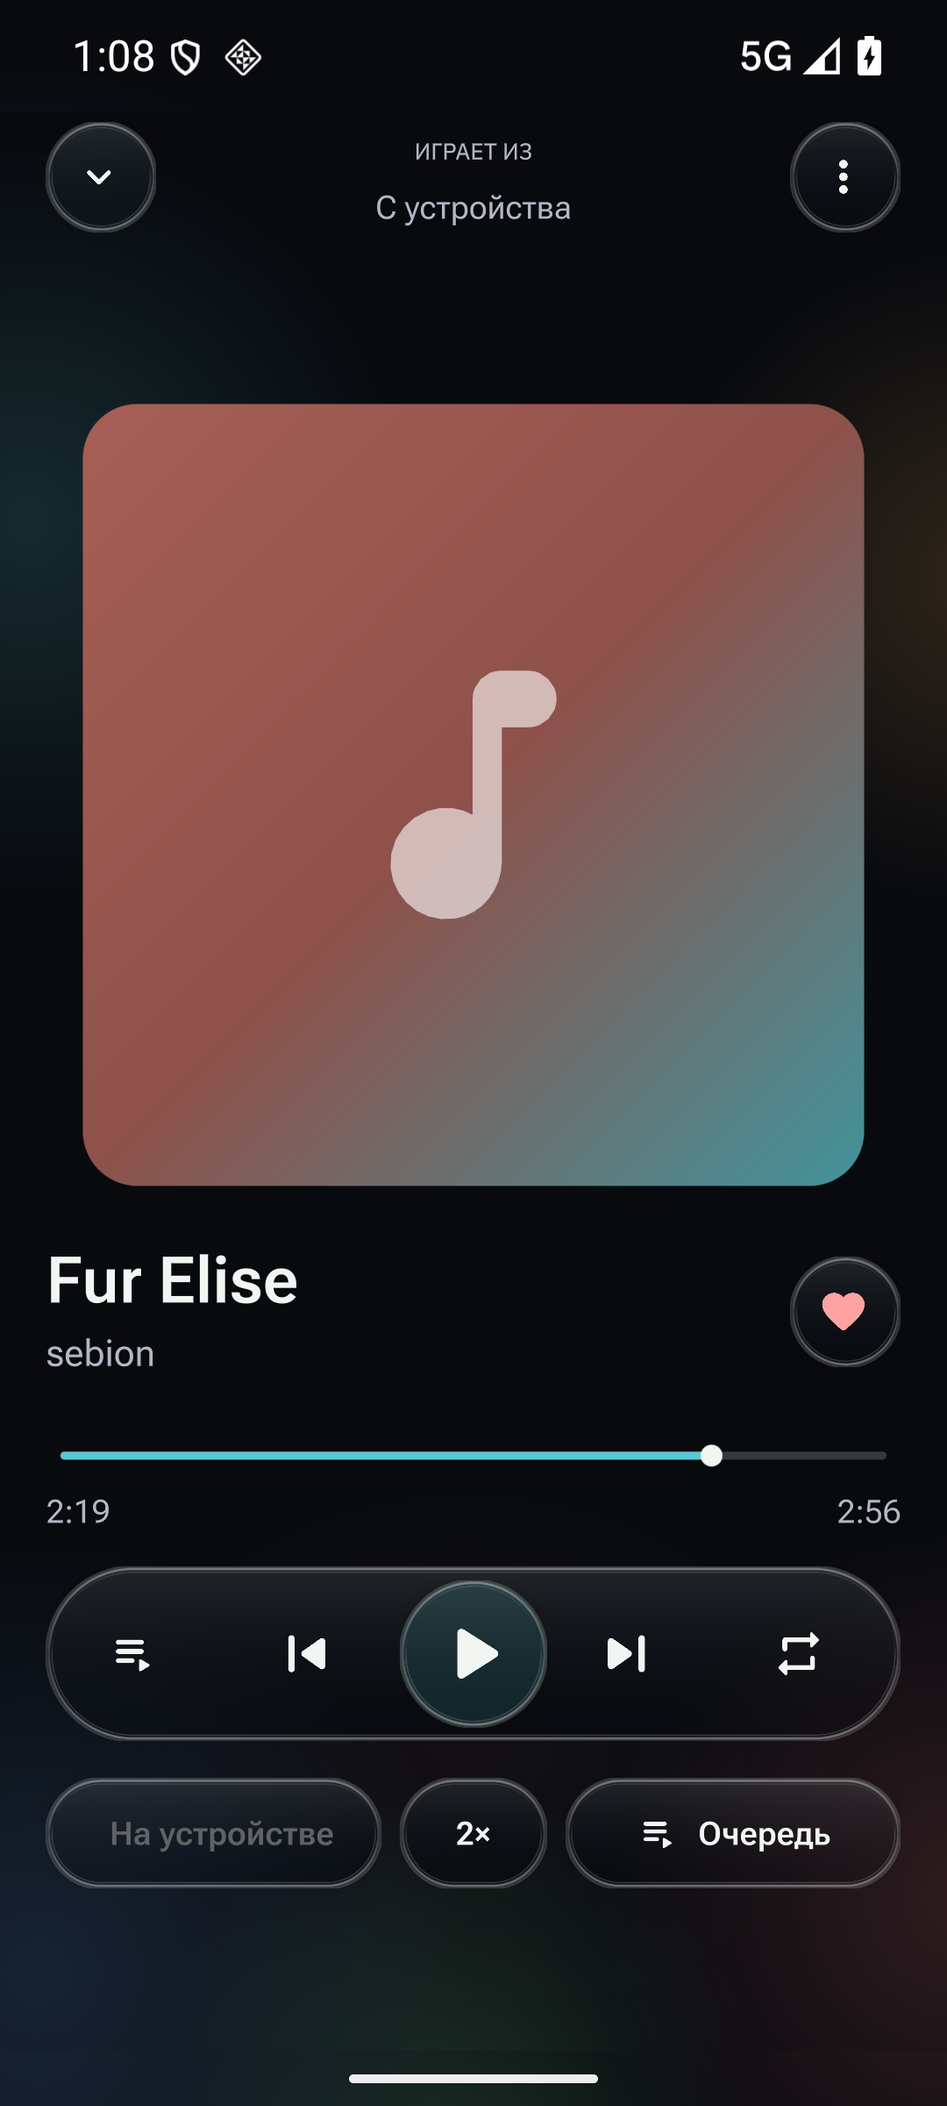
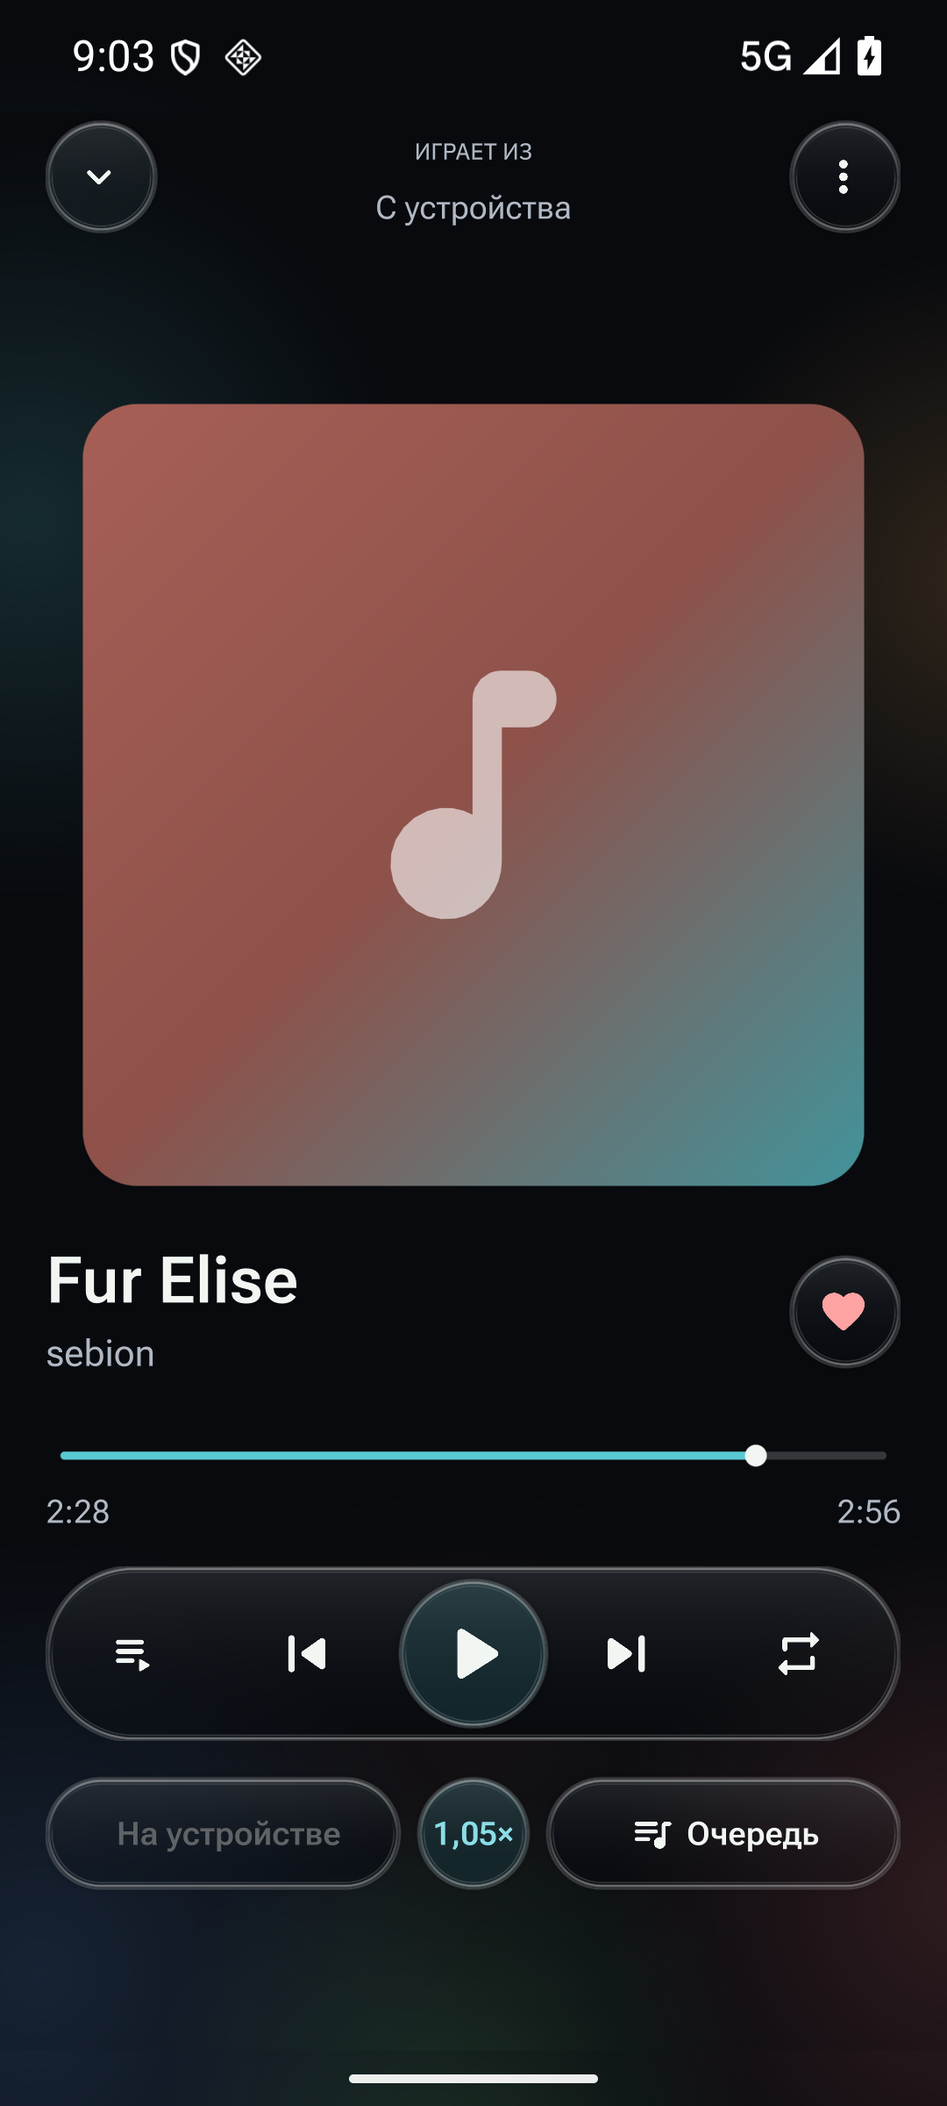
fix: match stable player actions and speed steps

diff --git a/src/app.rs b/src/app.rs
@@ -1570,6 +1570,22 @@ impl App {
                 self.ui
                     .media_slider(cx, ids!(speed_slider))
                     .set_value(cx, state.playback.speed);
+                for (id, disabled) in [
+                    (
+                        ids!(speed_minus),
+                        state.playback.speed <= data::MIN_PLAYBACK_SPEED,
+                    ),
+                    (
+                        ids!(speed_plus),
+                        state.playback.speed >= data::MAX_PLAYBACK_SPEED,
+                    ),
+                ] {
+                    let button = self.ui.widget(cx, id);
+                    button.set_disabled(cx, disabled);
+                    if let Some(mut button) = button.borrow_mut::<Button>() {
+                        button.draw_icon.opacity = if disabled { 0.38 } else { 1.0 };
+                    }
+                }
                 for (id, value) in [
                     (ids!(speed_slow), 0.5),
                     (ids!(speed_normal), 1.0),
@@ -2244,6 +2260,20 @@ impl App {
                 .as_ref()
                 .is_none_or(|s| s.playback.speed != playback.speed)
             {
+                let changed = (playback.speed - 1.).abs() > 0.001;
+                let accent = if changed { 1.0 } else { 0.0 };
+                let light = state.settings["theme"] == "light";
+                let color = match (changed, light) {
+                    (true, true) => vec4(0.075, 0.482, 0.541, 1.),
+                    (true, false) => vec4(0.541, 0.867, 0.902, 1.),
+                    (false, true) => vec4(0.114, 0.188, 0.196, 1.),
+                    (false, false) => vec4(0.945, 0.965, 0.953, 1.),
+                };
+                let mut button = self.ui.widget(cx, ids!(speed));
+                script_apply_eval!(cx, button, {
+                    draw_bg.accent:#(accent)
+                    draw_text +:{color:#(color) color_hover:#(color) color_down:#(color) color_focus:#(color)}
+                });
                 self.layout(cx);
             }
             self.text(cx, ids!(volume_label), &format!("{:.0}%", playback.volume));
@@ -3446,10 +3476,10 @@ impl MatchEvent for App {
             }
         }
         if self.click(cx, actions, ids!(speed_minus)) {
-            self.send(cx, C::Speed((state.playback.speed - 0.1).max(0.3)));
+            self.send(cx, C::SpeedStep(-1));
         }
         if self.click(cx, actions, ids!(speed_plus)) {
-            self.send(cx, C::Speed((state.playback.speed + 0.1).min(4.0)));
+            self.send(cx, C::SpeedStep(1));
         }
         if self
             .ui

diff --git a/src/ui.rs b/src/ui.rs
@@ -373,9 +373,9 @@ script_mod! {
                         }
                     }
                     View{width:Fill height:56 padding:Inset{top:4 bottom:4} flow:Right spacing:8
-                        player_save := mod.spotygram.Glass{width:Fill padding:8 text:"Save on device" icon_walk:Walk{width:20 height:20} draw_icon.svg:crate_resource("self:resources/download.svg")}
-                        speed := mod.spotygram.Glass{width:64 padding:8 text:"1×"}
-                        queue := mod.spotygram.Glass{width:Fill padding:8 text:"Queue" icon_walk:Walk{width:20 height:20} draw_icon.svg:crate_resource("self:resources/order.svg")}
+                        player_save := mod.spotygram.Glass{width:Fill padding:8 spacing:5 text:"Save on device" icon_walk:Walk{width:20 height:20} draw_icon.svg:crate_resource("self:resources/download.svg")}
+                        speed := mod.spotygram.Glass{width:48 padding:0 text:"1×" draw_bg.accent_color:mix(#x086d79,#x58c9d2,theme.spotygram_dark)}
+                        queue := mod.spotygram.Glass{width:Fill padding:8 spacing:5 text:"Queue" icon_walk:Walk{width:20 height:20} draw_icon.svg:crate_resource("self:resources/queue.svg")}
                     }
                     volume_row := View{width:Fill height:44 flow:Right align:Align{y:0.5} spacing:8
                         mute := mod.spotygram.PlainIcon{draw_icon.svg:crate_resource("self:resources/volume.svg")}
@@ -545,7 +545,7 @@ script_mod! {
                                  speed_value := mod.spotygram.Title{text:"1×" align:Center}
                                  speed_plus := mod.spotygram.InlineIcon{draw_icon.svg:crate_resource("self:resources/add.svg")}
                              }
-                            speed_slider := mod.spotygram.Slider{min:0.3 max:4.0 step:0.05}
+                            speed_slider := mod.spotygram.Slider{min:#(data::MIN_PLAYBACK_SPEED) max:#(data::MAX_PLAYBACK_SPEED) step:#(data::PLAYBACK_SPEED_STEP)}
                             View{width:Fill height:48 flow:Right spacing:6
                                  speed_slow := mod.spotygram.InlineGlass{width:Fill padding:4 text:"0.5×"}
                                  speed_normal := mod.spotygram.InlineGlass{width:Fill padding:4 text:"1×"}

diff --git a/src/runtime.rs b/src/runtime.rs
@@ -671,6 +671,15 @@ impl Core {
         Ok(())
     }
 
+    fn set_speed(&mut self, value: f64) -> Result<()> {
+        ensure!(value.is_finite(), "Invalid playback speed");
+        self.queue.speed = playback_speed_step(value);
+        if let Some(engine) = &self.engine {
+            engine.speed(self.queue.speed)?;
+        }
+        self.store.save_queue(&self.queue, false)
+    }
+
     async fn command(&mut self, command: Command) -> Result<()> {
         if !matches!(
             &command,
@@ -1036,12 +1045,10 @@ impl Core {
                 self.save_checkpoint(true)?;
             }
             Command::Speed(value) => {
-                ensure!(value.is_finite(), "Invalid playback speed");
-                self.queue.speed = value.clamp(0.3, 4.);
-                if let Some(engine) = &self.engine {
-                    engine.speed(self.queue.speed)?;
-                }
-                self.store.save_queue(&self.queue, false)?;
+                self.set_speed(value)?;
+            }
+            Command::SpeedStep(steps) => {
+                self.set_speed(self.queue.speed + f64::from(steps) * PLAYBACK_SPEED_STEP)?;
             }
             Command::Volume(value) => {
                 ensure!(value.is_finite(), "Invalid volume");

diff --git a/src/model.rs b/src/model.rs
@@ -198,6 +198,15 @@ pub enum Repeat {
     One,
 }
 
+pub const MIN_PLAYBACK_SPEED: f64 = 0.3;
+pub const MAX_PLAYBACK_SPEED: f64 = 4.0;
+pub const PLAYBACK_SPEED_STEP: f64 = 0.05;
+
+pub fn playback_speed_step(value: f64) -> f64 {
+    let ticks = 1.0 / PLAYBACK_SPEED_STEP;
+    ((value * ticks).round() / ticks).clamp(MIN_PLAYBACK_SPEED, MAX_PLAYBACK_SPEED)
+}
+
 #[derive(Clone, Debug, Serialize, Deserialize)]
 #[serde(default)]
 pub struct Queue {
@@ -317,6 +326,7 @@ pub enum Command {
     Previous,
     Seek(f64),
     Speed(f64),
+    SpeedStep(i8),
     Volume(f64),
     Mute,
     Order(Order),

diff --git a/src/store.rs b/src/store.rs
@@ -703,7 +703,7 @@ impl Store {
             .query_map([], |r| r.get(0))?
             .collect::<rusqlite::Result<_>>()?;
         queue.index = queue.index.min(queue.ids.len().saturating_sub(1));
-        queue.speed = queue.speed.clamp(0.3, 4.);
+        queue.speed = playback_speed_step(queue.speed);
         queue.volume = queue.volume.clamp(0., 100.);
         if queue.shuffled.len() != queue.ids.len() {
             queue.shuffled.clear();

diff --git a/docs/verification.ru.md b/docs/verification.ru.md
@@ -6,6 +6,38 @@
 каркасы, аккаунты и аудио не входят в приложение. Предварительные релизы отделены
 от канала стабильной версии.
 
+## Управление плеером в 0.2.3
+
+Нижний ряд плеера следует эталону Compose: круглая кнопка скорости 48 dp,
+равные боковые кнопки, промежутки 8 dp и скруглённая иконка QueueMusic.
+Скорость, отличная от 1×, использует акцент и цвет текста из эталона.
+Команды и восстановление очереди используют общий шаг 0,05 в диапазоне 0,3–4×.
+
+Готовый Linux-интерфейс проверен через Vulkan и OpenGL на Radeon в обеих темах,
+с проверкой адаптации при 390×812 и 320×720, включая состояния Скачать,
+На устройстве, Очередь, наведение/нажатие и сброс на 1×.
+Работают 1× → 1,05× → 1,1× → 1,05×, ползунок, пресеты, границы 0,3×/4× и
+отключение соответствующих кнопок. Русские подписи с запятой и английские с
+точкой помещаются в круг. Настоящий Ogg воспроизводился через libmpv с нулевым
+выводом на 1,05×; перезапуск сохранил скорость и позицию на паузе. В проверенных
+кадрах прежнее исправление контурной тени сохранено.
+
+Быстрые нажатия на Android выявили второй сбой: пять нажатий + могли дать только
+три шага, поскольку UI использовал старый снимок скорости. Относительные команды
+−/+ теперь последовательно применяются к текущей скорости в рабочем потоке.
+Пять быстрых нажатий + на desktop и Android дают ровно 1× → 1,25×; пять нажатий −
+на Android возвращают 1×.
+
+Подписанный APK установлен поверх 0.2.2 на эмуляторе Android 16 / API 36; финальная
+пересобранная версия установлена повторно без очистки данных. Версия 0.2.3-rust /
+1005 сохранила каталог на 10 007 записей, избранное, язык, тему и состояние плеера.
+По реальным кадрам проверены обе темы, сброс на 1×, подписи 1,05× и 3,95×,
+границы скорости и Очередь. Media3 воспроизводил настоящий Ogg на 1,05×;
+перезапуск сохранил 1,05× и паузу на 2:28. Ошибок скриптов/шейдеров Makepad и
+падений приложения не было. Оба APK прошли lint приложения, проверку подписи и
+16-KiB ZIP alignment с прежним сертификатом. Проверки используют офлайн-профили;
+они не подтверждают работу с настоящим аккаунтом или на физическом телефоне.
+
 ## Края стекла в 0.2.2
 
 Квадратные серые следы со скриншотов владельца воспроизведены на круглой кнопке

diff --git a/docs/verification.md b/docs/verification.md
@@ -6,6 +6,37 @@ Verification uses manual interaction, runtime logs and screenshots. No automated
 test scaffolding, account fixtures or media are shipped with the application.
 Preview releases are independent of the stable release channel.
 
+## 0.2.3 player controls
+
+The lower player row follows the stable Compose reference: a 48-dp circular
+speed button, equal-width side buttons, 8-dp gaps and the rounded QueueMusic
+glyph. Non-1× speed uses the reference accent and secondary text colors.
+Commands and restored queue values use the same 0.05 grid over 0.3–4×.
+
+The packaged Linux interface was inspected through Radeon-backed Vulkan and
+OpenGL in both appearances, with responsive checks at 390×812 and 320×720,
+including Download, On device, Queue, hover/press and the 1× reset.
+1× → 1.05× → 1.1× → 1.05× works, as do slider input, presets, the 0.3×/4× limits
+and their disabled controls. Russian comma and English decimal labels fit inside
+the circle. A genuine Ogg played through libmpv with null output at 1.05×;
+restart retained the value and paused position. The previous contour-shadow fix
+remains intact in the inspected frames.
+
+Rapid Android taps exposed a second issue: five + presses could advance only
+three steps because the UI reused an older snapshot. Relative −/+ commands now
+apply sequentially to the worker's current speed. Five rapid + presses on desktop
+and Android advance exactly from 1× to 1.25×; five Android − presses return to 1×.
+
+The signed APK updated 0.2.2 in place on the Android 16 / API-36 emulator and the
+final rebuilt package was reinstalled without clearing data. Version 0.2.3-rust /
+1005 retained the 10,007-row catalog, favorite, language, theme and playback state.
+Actual frames cover both themes, 1× reset, 1.05× and 3.95× labels, speed limits and
+Queue. Media3 advanced the genuine Ogg at 1.05×; restart retained 1.05× and pause
+at 2:28. No Makepad script/shader failure or app crash appeared. Both APKs pass
+application lint, signature verification and 16-KiB ZIP alignment with the existing
+signing certificate. These checks use offline verification profiles and do not
+establish production-account or physical-phone behavior.
+
 ## 0.2.2 glass edges
 
 The owner's square gray marks reproduce around the circular player Close button

diff --git a/docs/architecture.ru.md b/docs/architecture.ru.md
@@ -61,6 +61,10 @@ Rust-версия — отдельное нативное приложение. 
 обновляет полный плеер не чаще четырёх раз в секунду. Скрытый интерфейс не получает
 эти перерисовки. Позиция сохраняется раз в пять секунд и при существенных переходах
 плеера. Изменение громкости и скорости не перезагружает каталог.
+`model.rs` задаёт общий диапазон 0,3–4× и шаг скорости 0,05; команды и восстановление
+очереди используют одно округление перед передачей значения любому из аудиодвижков.
+Команды −/+ передают относительные шаги; рабочий поток применяет их к текущей
+скорости, поэтому быстрые нажатия не зависят от прихода следующего снимка в UI.
 
 Маленькие аватары источников загружаются последовательно с низким приоритетом
 по ограниченному набору запросов видимых элементов. При скрытии приложения

diff --git a/docs/usage.ru.md b/docs/usage.ru.md
@@ -74,6 +74,9 @@ Android также принимает аудио через «Поделитьс
 обратный порядок, перемешивание без повторов внутри прохода и независимый случайный
 выбор.
 
+Скорость меняется от 0,3× до 4× с шагом 0,05 ползунком или кнопками −/+. Круглая
+кнопка скорости подсвечивается, когда значение отличается от 1×; пресет 1× сбрасывает его.
+
 Состояние плеера сохраняется локально; после запуска музыка сама не включается.
 Длинные записи могут продолжаться с закладки; порог длительности задаётся в
 Настройках. Android использует медиасервис и уведомление, компьютер — системные

diff --git a/docs/architecture.md b/docs/architecture.md
@@ -57,6 +57,10 @@ cache entries while retaining current artwork. Playback clock updates reach the
 full player at most four times per second; hidden UI does not receive those
 redraws. Position checkpoints are written at five-second intervals and on
 meaningful playback transitions. Sound controls do not reload the catalog.
+`model.rs` defines the shared 0.3–4× range and 0.05 speed grid; commands and queue
+restore use the same rounding before passing the value to either audio engine.
+−/+ commands carry relative steps; the worker applies them to its current speed
+so rapid taps do not depend on when the UI receives the next snapshot.
 
 Small source avatars load serially at low priority for bounded visible requests.
 Hiding the app cancels that work. The source-photo table and bounded directory

diff --git a/README.ru.md b/README.ru.md
@@ -14,7 +14,7 @@ Kotlin-версия остаётся в [`main`](https://github.com/Krablante/sp
 Тестовые выпуски используют теги `rust-v…` и помечаются как prerelease. Они не
 становятся последним стабильным релизом GitHub. Java runtime в desktop-пакетах нет.
 
-[Скачать тестовую Rust-версию](https://github.com/Krablante/spotygram/releases/tag/rust-v0.2.2)
+[Скачать тестовую Rust-версию](https://github.com/Krablante/spotygram/releases/tag/rust-v0.2.3)
 · [Как пользоваться](docs/usage.ru.md) · [Собрать из исходников](docs/build.ru.md)
 · [Проверки и ограничения](docs/verification.ru.md)
 

diff --git a/docs/usage.md b/docs/usage.md
@@ -70,6 +70,9 @@ or open Queue over the player. Queue rows have direct play, move-up and remove c
 including repeated occurrences of the same song. Available orders are forward,
 reverse, shuffle without repeats within a pass, and independent random draws.
 
+Speed ranges from 0.3× to 4× in 0.05 steps, using the slider or −/+. The circular
+speed button is tinted whenever playback differs from 1×; the 1× preset resets it.
+
 <img src="screenshots/rust-desktop-player-dark.png" alt="The shared desktop player in dark appearance" width="860">
 
 <img src="screenshots/rust-android-dark.png" alt="The same player on Android in dark appearance" width="300">
